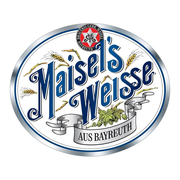
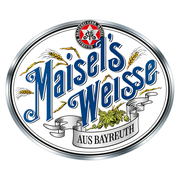
Switch to the transparent label artwork, drop the white plate
The new upload has a real alpha channel, so the oval now sits directly
on the navy with a drop-shadow that follows its shape instead of a white
box. Quantised to 256 colours: 82 KB, lighter than the 102 KB JPG it
replaces. Icons are flattened onto white since iOS renders transparency
as black. Old logo.jpg and logo-source.jpg removed.

diff --git a/index.html b/index.html
@@ -53,12 +53,9 @@ img{max-width:100%;display:block}
   content:"";position:absolute;left:0;right:0;bottom:0;height:3px;
   background:linear-gradient(90deg,transparent,var(--silver) 20%,#fff 50%,var(--silver) 80%,transparent);
 }
-.seal{
-  width:min(218px,60vw);margin:0 auto 18px;
-  background:#fff;border-radius:4px;padding:10px 12px;
-  box-shadow:0 10px 26px rgba(4,16,36,.42);
-}
-.seal img{width:100%;height:auto}
+.seal{width:min(236px,64vw);margin:0 auto 18px}
+/* the label is transparent, so the shadow follows the oval, not a box */
+.seal img{width:100%;height:auto;filter:drop-shadow(0 7px 16px rgba(2,10,26,.55))}
 .seal.fallback{
   width:112px;height:112px;padding:0;background:transparent;
   border-radius:50%;box-shadow:none;display:grid;place-items:center;
@@ -431,7 +428,7 @@ var SITE = {
   var seal = document.getElementById("seal");
   var probe = new Image();
   probe.onload = function(){
-    seal.innerHTML = '<img src="logo.jpg" width="700" height="589" alt="Maisel\'s Weisse aus Bayreuth">';
+    seal.innerHTML = '<img src="logo.png" width="700" height="584" alt="Maisel\'s Weisse aus Bayreuth">';
   };
   probe.onerror = function(){
     seal.className = "seal fallback";
@@ -442,7 +439,7 @@ var SITE = {
       + '<text x="60" y="72" text-anchor="middle" font-family="Georgia,serif" font-size="26" font-weight="700" fill="#16386B">MK</text>'
       + '</svg>';
   };
-  probe.src = "logo.jpg";
+  probe.src = "logo.png";
 })();
 </script>
 </body>

diff --git a/card.html b/card.html
@@ -26,11 +26,7 @@
     outline:1px dashed rgba(0,0,0,.18);outline-offset:-0.2mm;
     -webkit-print-color-adjust:exact;print-color-adjust:exact;
   }
-  .seal{
-    width:46mm;background:#fff;border-radius:2.4mm;
-    padding:2mm 2.4mm;margin-bottom:5mm;
-    box-shadow:0 1mm 3mm rgba(0,0,0,.25);
-  }
+  .seal{width:50mm;margin-bottom:5mm}
   .seal img{width:100%;height:auto;display:block}
   .name{
     font-family:"Noto Serif Georgian",Georgia,serif;font-weight:700;
@@ -56,7 +52,7 @@
 <script>
 var CARD =
   '<div class="card">'
-+   '<div class="seal"><img src="logo.jpg" alt="Maisel\'s Weisse aus Bayreuth"></div>'
++   '<div class="seal"><img src="logo.png" alt="Maisel\'s Weisse aus Bayreuth"></div>'
 +   '<h1 class="name">Maisel Kutaisi</h1>'
 +   '<p class="sub">Bavarian Beer &middot; Georgian Kitchen</p>'
 +   '<div class="qrbox"><img src="qr.svg" alt="Menu QR code"></div>'

diff --git a/README.md b/README.md
@@ -11,7 +11,8 @@ Maisel's Weisse label, plus the QR code and print-ready table cards.
 | `menu-data.js` | Every item and price. **This is the only file you edit day to day.** |
 | `make-qr.py` | Generates `qr.svg` + `qr.png` from the live URL. |
 | `card.html` | A4 sheet of four A6 table cards with the QR, ready to print and cut. |
-| `logo.png` | Optional. Drop the real logo here and the page uses it automatically. |
+| `logo.png` | The Maisel's Weisse label, transparent background, used on the page and the cards. |
+| `logo-source.png` | Full-resolution original. `logo.png` is generated from it. |
 
 ## Changing a price or an item
 
